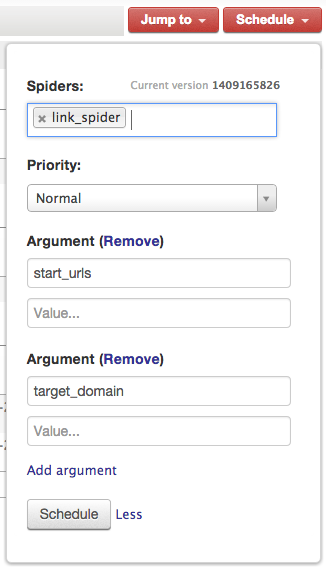
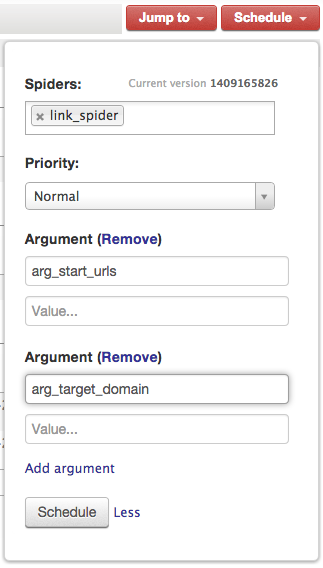
Update png

diff --git a/notes.md b/notes.md
@@ -40,3 +40,8 @@ Link(url='http://www.github.com/', text='valid github link', fragment='', nofoll
 log.msg(repr(links[0]), level=log.INFO)
 log.msg('------------------------------- Parsing: %s' % response.url, level=log.INFO)
 ```
+
+
+Args can be set on scraping hub
+
+![](args_on_scrapinghub.png)
